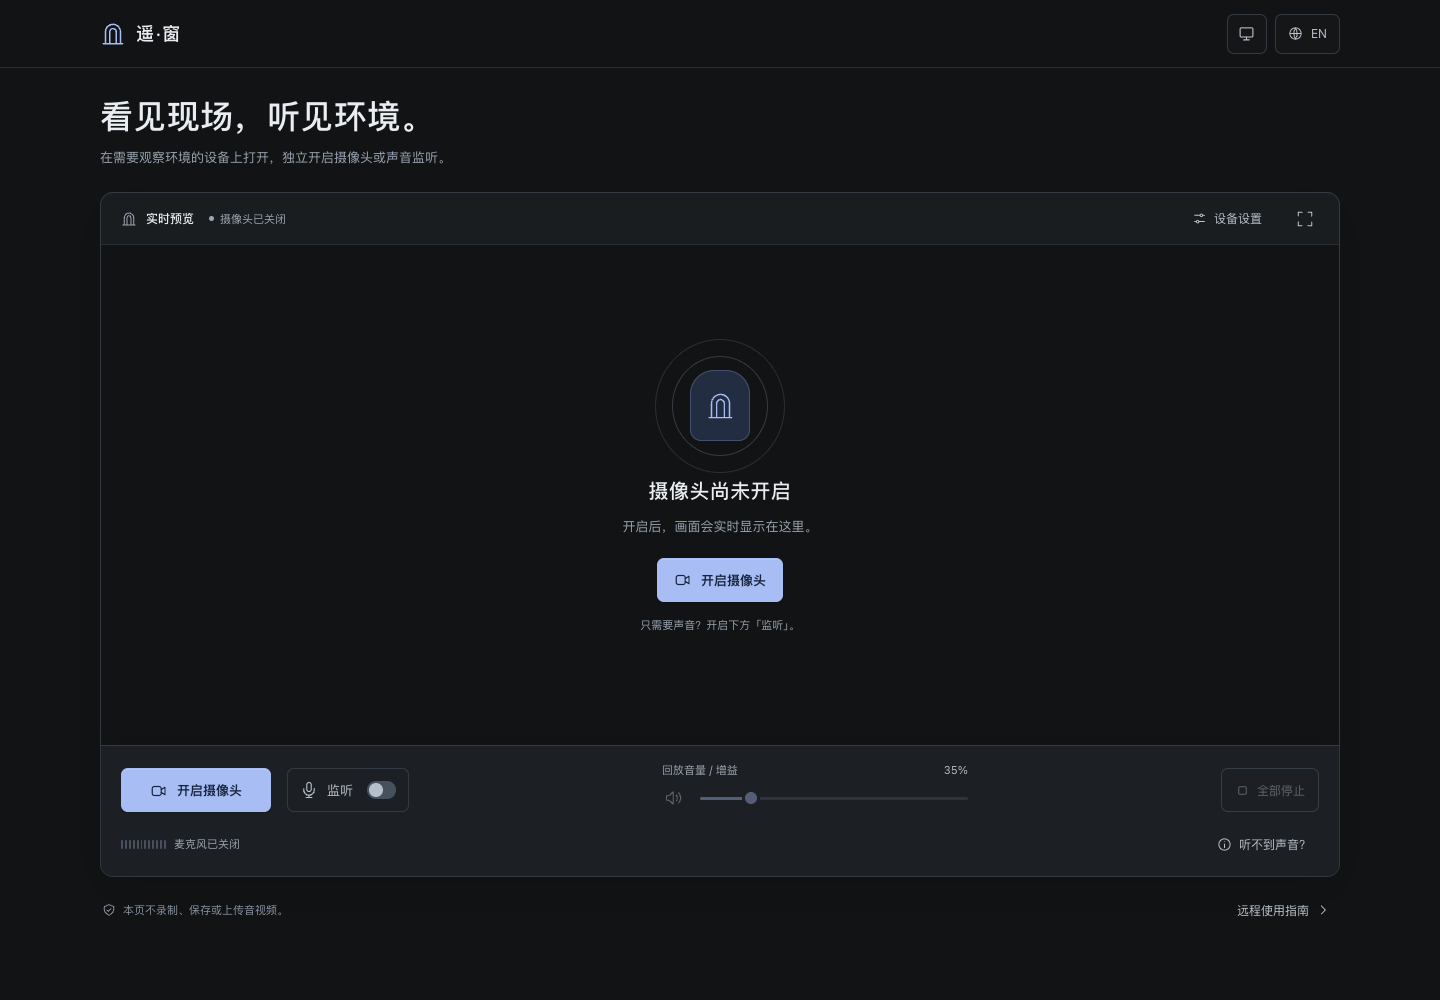
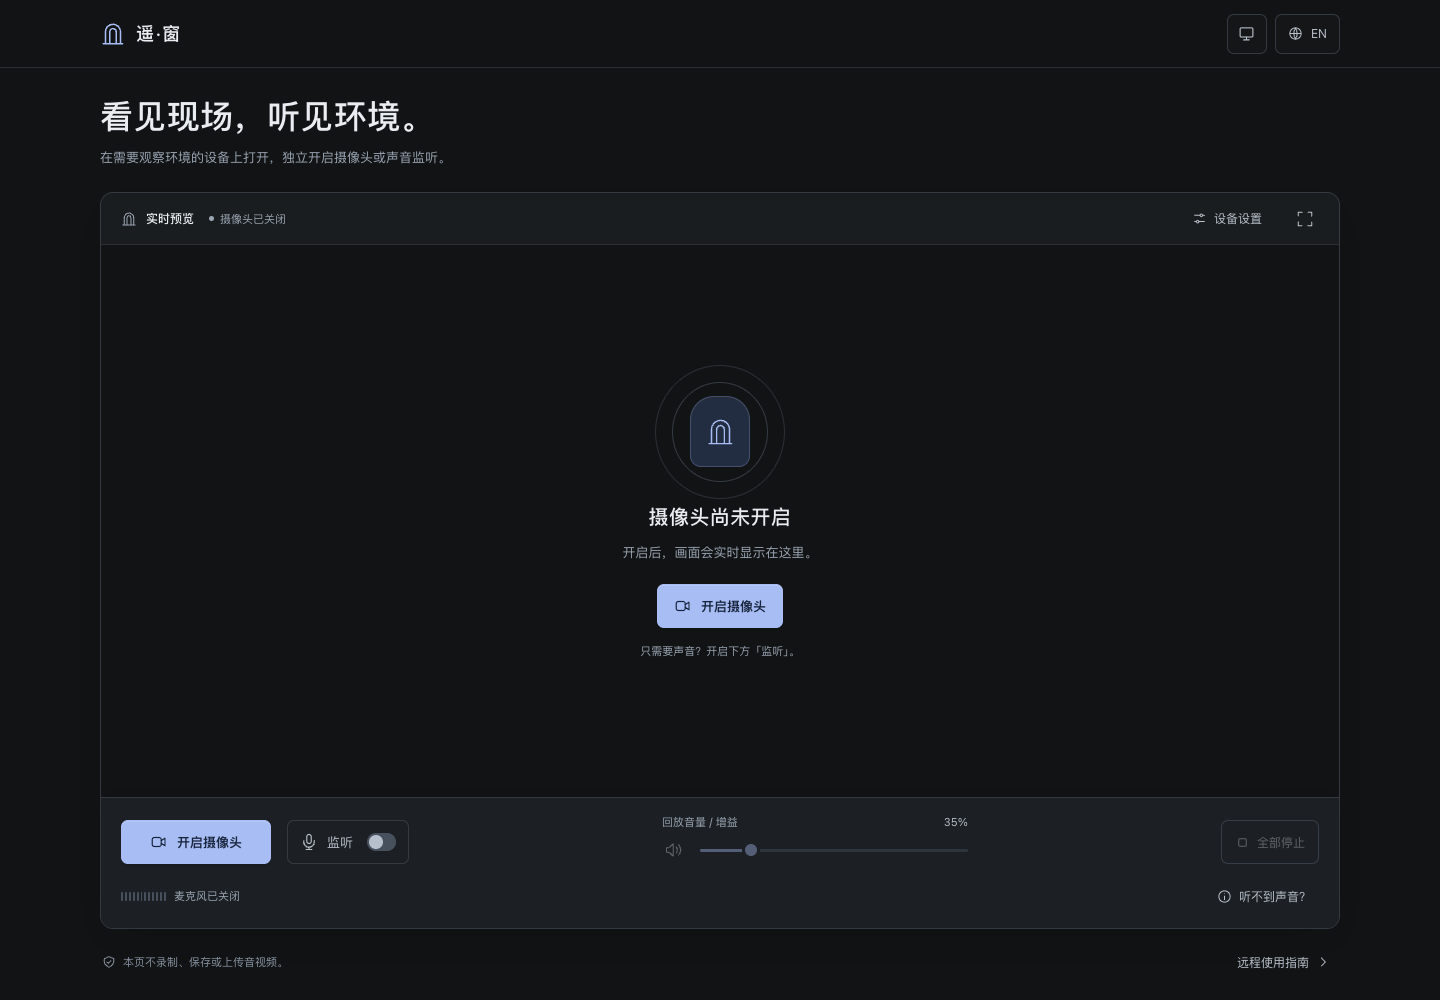
Let the preview fill the available viewport height

diff --git a/src/style.css b/src/style.css
@@ -88,6 +88,7 @@
 * { box-sizing: border-box; }
 body, h1, h2, h3, p { margin: 0; }
 body { min-width: 280px; }
+#app { min-height: 100svh; min-height: 100dvh; display: flex; flex-direction: column; }
 button, input, select { font: inherit; }
 button { cursor: pointer; }
 button, a, select { -webkit-tap-highlight-color: transparent; }
@@ -98,7 +99,7 @@ button:focus-visible, a:focus-visible, select:focus-visible, input:focus-visible
 .icon { width: 18px; height: 18px; flex-shrink: 0; vertical-align: middle; }
 .skip-link { position: fixed; top: -70px; left: 18px; z-index: 20; padding: 12px; color: var(--action-text); background: var(--accent); border-radius: 6px; text-decoration: none; }
 .skip-link:focus { top: 12px; }
-.site-header { border-bottom: 1px solid var(--border-soft); height: 68px; }
+.site-header { border-bottom: 1px solid var(--border-soft); height: 68px; flex-shrink: 0; }
 .header-inner, .main-content { max-width: 1240px; width: calc(100% - 80px); margin: 0 auto; }
 .header-actions { display: flex; align-items: center; gap: 8px; }
 .theme-control { position: relative; }
@@ -120,7 +121,8 @@ html[lang='zh-CN'] .brand { letter-spacing: 1.5px; }
 .language-button { display: flex; align-items: center; gap: 8px; min-height: 40px; padding: 0 12px; border: 1px solid var(--border); border-radius: 7px; color: var(--text-secondary); background: var(--subtle-bg); font-size: 12px; }
 .language-button:hover { background: var(--hover-bg); }
 .language-button .icon { width: 15px; height: 15px; }
-.main-content { padding-top: 25px; padding-bottom: 18px; }
+.main-content { flex: 1; display: flex; flex-direction: column; padding-top: 25px; padding-bottom: 18px; }
+.intro, .environment-error, .privacy-row { flex-shrink: 0; }
 .intro { margin-bottom: 24px; }
 h1 { font-size: clamp(26px, 2.6vw, 33px); font-weight: 480; letter-spacing: -1px; line-height: 1.4; }
 .intro-description { color: var(--muted); font-size: 13px; line-height: 1.7; margin-top: 7px; }
@@ -128,7 +130,8 @@ h1 { font-size: clamp(26px, 2.6vw, 33px); font-weight: 480; letter-spacing: -1px
 .intro.is-compact h1 { margin-top: 0; font-size: 19px; letter-spacing: -.3px; }
 .intro.is-compact .intro-description { display: none; }
 .environment-error { display: flex; gap: 10px; align-items: center; border: 1px solid var(--danger-border); border-radius: 8px; background: var(--danger-bg); padding: 14px; font-size: 13px; line-height: 1.7; color: var(--danger); margin-bottom: 18px; }
-.workspace { border: 1px solid var(--border); border-radius: 13px; background: var(--panel-bg); box-shadow: 0 14px 50px var(--shadow); }
+.workspace { flex: 1; display: flex; flex-direction: column; border: 1px solid var(--border); border-radius: 13px; background: var(--panel-bg); box-shadow: 0 14px 50px var(--shadow); }
+.panel-toolbar, .preview-footer, .control-panel { flex-shrink: 0; }
 .panel-toolbar { display: flex; gap: 15px; align-items: center; padding: 5px 14px 5px 20px; min-height: 52px; border-bottom: 1px solid var(--border-soft); }
 .panel-toolbar h2 { display: flex; align-items: center; gap: 9px; font-size: 12px; font-weight: 500; }
 .panel-toolbar h2 .icon { color: var(--muted); width: 16px; }
@@ -143,7 +146,7 @@ h1 { font-size: clamp(26px, 2.6vw, 33px); font-weight: 480; letter-spacing: -1px
 .text-button:hover, .icon-button:not(:disabled):hover { background: var(--hover-bg); color: var(--text); }
 .text-button .icon { width: 15px; height: 15px; }
 .icon-button { width: 40px; flex-shrink: 0; }
-.stage { position: relative; height: clamp(300px, calc(100svh - 500px), 600px); min-height: 300px; background: var(--stage-bg); overflow: hidden; display: grid; place-items: center; }
+.stage { position: relative; flex: 1 0 auto; min-height: 300px; background: var(--stage-bg); overflow: hidden; display: grid; place-items: center; }
 .stage::before { content: ''; position: absolute; inset: 0; background-image: radial-gradient(var(--dot-grid) .7px, transparent .7px); background-size: 20px 20px; mask-image: radial-gradient(ellipse at center, #000 5%, transparent 65%); pointer-events: none; }
 .stage video { width: 100%; height: 100%; position: absolute; inset: 0; object-fit: contain; background: var(--video-bg); opacity: 0; transition: opacity .25s ease; }
 .stage[data-state='active'] video { opacity: 1; }
@@ -269,7 +272,7 @@ select:hover { border-color: var(--accent); }
 .check-result[data-state='error'], #mic-status[data-state='error'] { color: var(--danger); }
 .sound-checks p { margin-top: 5px; }
 .sound-checks .text-button { color: var(--accent); margin-top: 4px; }
-.workspace:fullscreen { width: 100%; height: 100%; border: 0; border-radius: 0; display: flex; flex-direction: column; background: var(--panel-bg); overflow: auto; }
+.workspace:fullscreen { flex: none; width: 100%; height: 100%; border: 0; border-radius: 0; display: flex; flex-direction: column; background: var(--panel-bg); overflow: auto; }
 .workspace:fullscreen .stage { flex: 1; height: auto; min-height: 180px; }
 .workspace:fullscreen .panel-toolbar, .workspace:fullscreen .preview-footer, .workspace:fullscreen .control-panel { flex-shrink: 0; }
 .workspace:fullscreen .control-panel { border-radius: 0; }
@@ -305,7 +308,7 @@ html[lang='zh-CN'] h1, html[lang='zh-CN'] .empty-state h3 { letter-spacing: .4px
   .panel-toolbar .status-badge { font-size: 10px; gap: 4px; }
   #settings-open { font-size: 11px; gap: 5px; padding: 0 5px; }
   #fullscreen { width: 32px; }
-  .stage { height: 340px; min-height: 320px; }
+  .stage { min-height: 320px; }
   .empty-state { width: 88%; padding: 22px 0; }
   .portal-illustration { height: 77px; width: 80px; margin-bottom: 17px; }
   .portal-glyph { width: 48px; height: 57px; border-radius: 19px 19px 9px 9px; }

diff --git a/README.en.md b/README.en.md
@@ -24,7 +24,7 @@ Built with Vite, vanilla JavaScript, and native browser APIs. No backend, accoun
 - Direct camera preview and fullscreen viewing. Prefers the highest available native resolution, then the highest frame rate at that resolution, with actual capture settings displayed.
 - Auto, 16:9, 4:3, 1:1, and 9:16 aspect ratio negotiation. Native formats come first; unavailable formats keep the working picture, with an explicit option to allow cropping.
 - Independent camera and microphone controls, plus one action to stop all capture. Navigation and refresh release media tracks.
-- A shared control bar in desktop, phone, and fullscreen views. Start directly from the empty preview; introductory copy collapses during capture.
+- The preview fills the remaining window height, with a shared control bar in desktop, phone, and fullscreen views. Start directly from the empty preview; introductory copy collapses during capture.
 - **Device settings** identifies the actual camera and microphone, with independent selection when multiple authorized inputs are available.
 - An audio-only view with real input levels. **Can’t hear anything?** traces microphone input, browser playback, and remote audio forwarding.
 - Sound checks suggest the next step for the current state, with actions to start listening, resume paused playback, or restore muted volume to the default 35%.

diff --git a/README.md b/README.md
@@ -24,7 +24,7 @@ Vite + 原生 JavaScript + 浏览器 Web API。无后端、账号、数据库或
 - 摄像头直连实时预览、全屏查看；默认优先设备支持的最高原生分辨率，再争取该分辨率下的最高帧率，显示实际采集参数。
 - 自动、16:9、4:3、1:1、9:16 画面比例协商；优先原生格式，不支持时保留画面，允许用户明确选择裁切适配。
 - 摄像头与麦克风独立开关，一键停止全部采集；刷新、离开网页时释放媒体轨道。
-- 主控制栏在桌面、手机和全屏预览中均可使用；空状态直接开启画面，采集中收起介绍文案。
+- 预览区自动利用窗口剩余高度，主控制栏在桌面、手机和全屏预览中均可使用；空状态直接开启画面，采集中收起介绍文案。
 - 「设备设置」显示实际摄像头和麦克风来源，有多个已授权输入时可独立切换。
 - 仅音频模式以真实输入电平为中心；「听不到声音？」按输入、浏览器回放、远程声音转发逐步排查。
 - 声音排查按当前状态给出下一步，可直接开启监听、恢复暂停的回放，或将静音恢复到默认 35% 音量。
